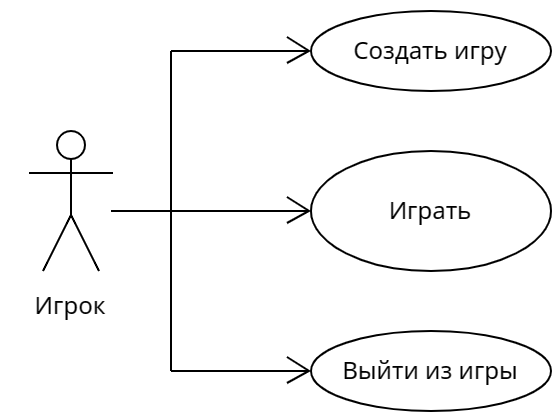
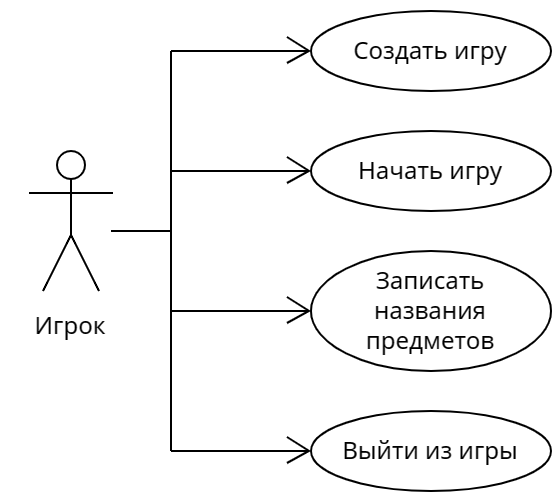
update lab1

diff --git a/lab1/lab1.md b/lab1/lab1.md
@@ -17,36 +17,47 @@
 ||3. Фиксирует выбранные параметры|
 ||4. Создаёт игру|
 
-### Прецедент "Играть"
-Описание: На экране появляются предметы, в течение двух минут игрок их просматривает, затем записывает названия тех предметов, которые запомнил, в поля для ввода. Если игроков несколько, ход передаётся от одного к другому, пока все не завершат ввод. В конце игры выводятся результаты. 
+
+### Прецедент "Начать игру"
+Описание: На экране появляются предметы, в течение двух минут игрок их просматривает.
 * Основной исполнитель: Игрок
 * Предусловие: Игра создана
+* Постусловие: Время для запоминания предметов вышло
+
+#### Основной сценарий
+|Пользователь|Система|
+|-|-|
+|1. Нажимает кнопку "Играть".||
+||2. Создаёт список предметов и изображение с ними.|
+||3. Отображает предметы на экране.|
+||4. По истечении времени скрывает предметы с экрана и создаёт кнопку "Далее"|
+
+### Прецедент "Записать названия предметов"
+Описание: Игрок записывает названия тех предметов, которые запомнил, в поля для ввода. Если игроков несколько, ход передаётся от одного к другому, пока все не завершат ввод. В конце игры выводятся результаты. 
+* Основной исполнитель: Игрок
+* Предусловие: Создана кнопка "Далее"
 * Постусловие: Отображены результаты игры
 
 #### Основной сценарий (для одного игрока)
 |Пользователь|Система|
 |-|-|
-|1. Нажимает кнопку "Играть".||
-||2. Создаёт список предметов и изображение с ними.|
-||3. Отображает предметы на экране.|
-||4. По истечении времени скрывает предметы с экрана и отображает поля для ввода названий предметов.|
-|5. Вводит названия запомненных предметов в поля.||
-|6. Нажимает кнопку "Готово".||
-||7. Фиксирует список введённых предметов и сравнивает его с изначальным списком.|
-||8. Выводит на экран изображение с предметами и результат игрока.|
+|1. Нажимает кнопку "Далее".||
+||2. Отображает поля для ввода названий предметов.|
+|3. Вводит названия запомненных предметов в поля.||
+|4. Нажимает кнопку "Готово".||
+||5. Фиксирует список введённых предметов и сравнивает его с изначальным списком.|
+||6. Выводит на экран изображение с предметами и результат игрока.|
 
 #### Альтернативный сценарий (для нескольких игроков )
 |Пользователь|Система|
 |-|-|
-|1. Нажимает кнопку "Играть".||
-||2. Создаёт список предметов и изображение с ними.|
-||3. Отображает предметы на экране.|
-||4. По истечении времени скрывает предметы с экрана и отображает поля для ввода названий предметов.|
-|5. Вводит названия запомненных предметов в поля.||
-|6. Нажимает кнопку "Готово".||
-||7. Фиксирует список введённых предметов и сравнивает его с изначальным списком.|
-||8. Очищает поля для ввода и передаёт ход другому игроку.|
-||9. Когда последний игрок нажимает кнопку "Готово", выводит на экран изображение с предметами и рейтинговую таблицу.|
+|1. Нажимает кнопку "Далее".||
+||2. Отображает поля для ввода названий предметов.|
+|3. Вводит названия запомненных предметов в поля.||
+|4. Нажимает кнопку "Готово".||
+||5. Фиксирует список введённых предметов и сравнивает его с изначальным списком.|
+||6. Очищает поля для ввода и передаёт ход другому игроку.|
+||7. Когда последний игрок нажимает кнопку "Готово", выводит на экран изображение с предметами и рейтинговую таблицу.|
 
 ### Прецедент "Выйти из игры"
 Описание: Игрок выходит из приложения.
